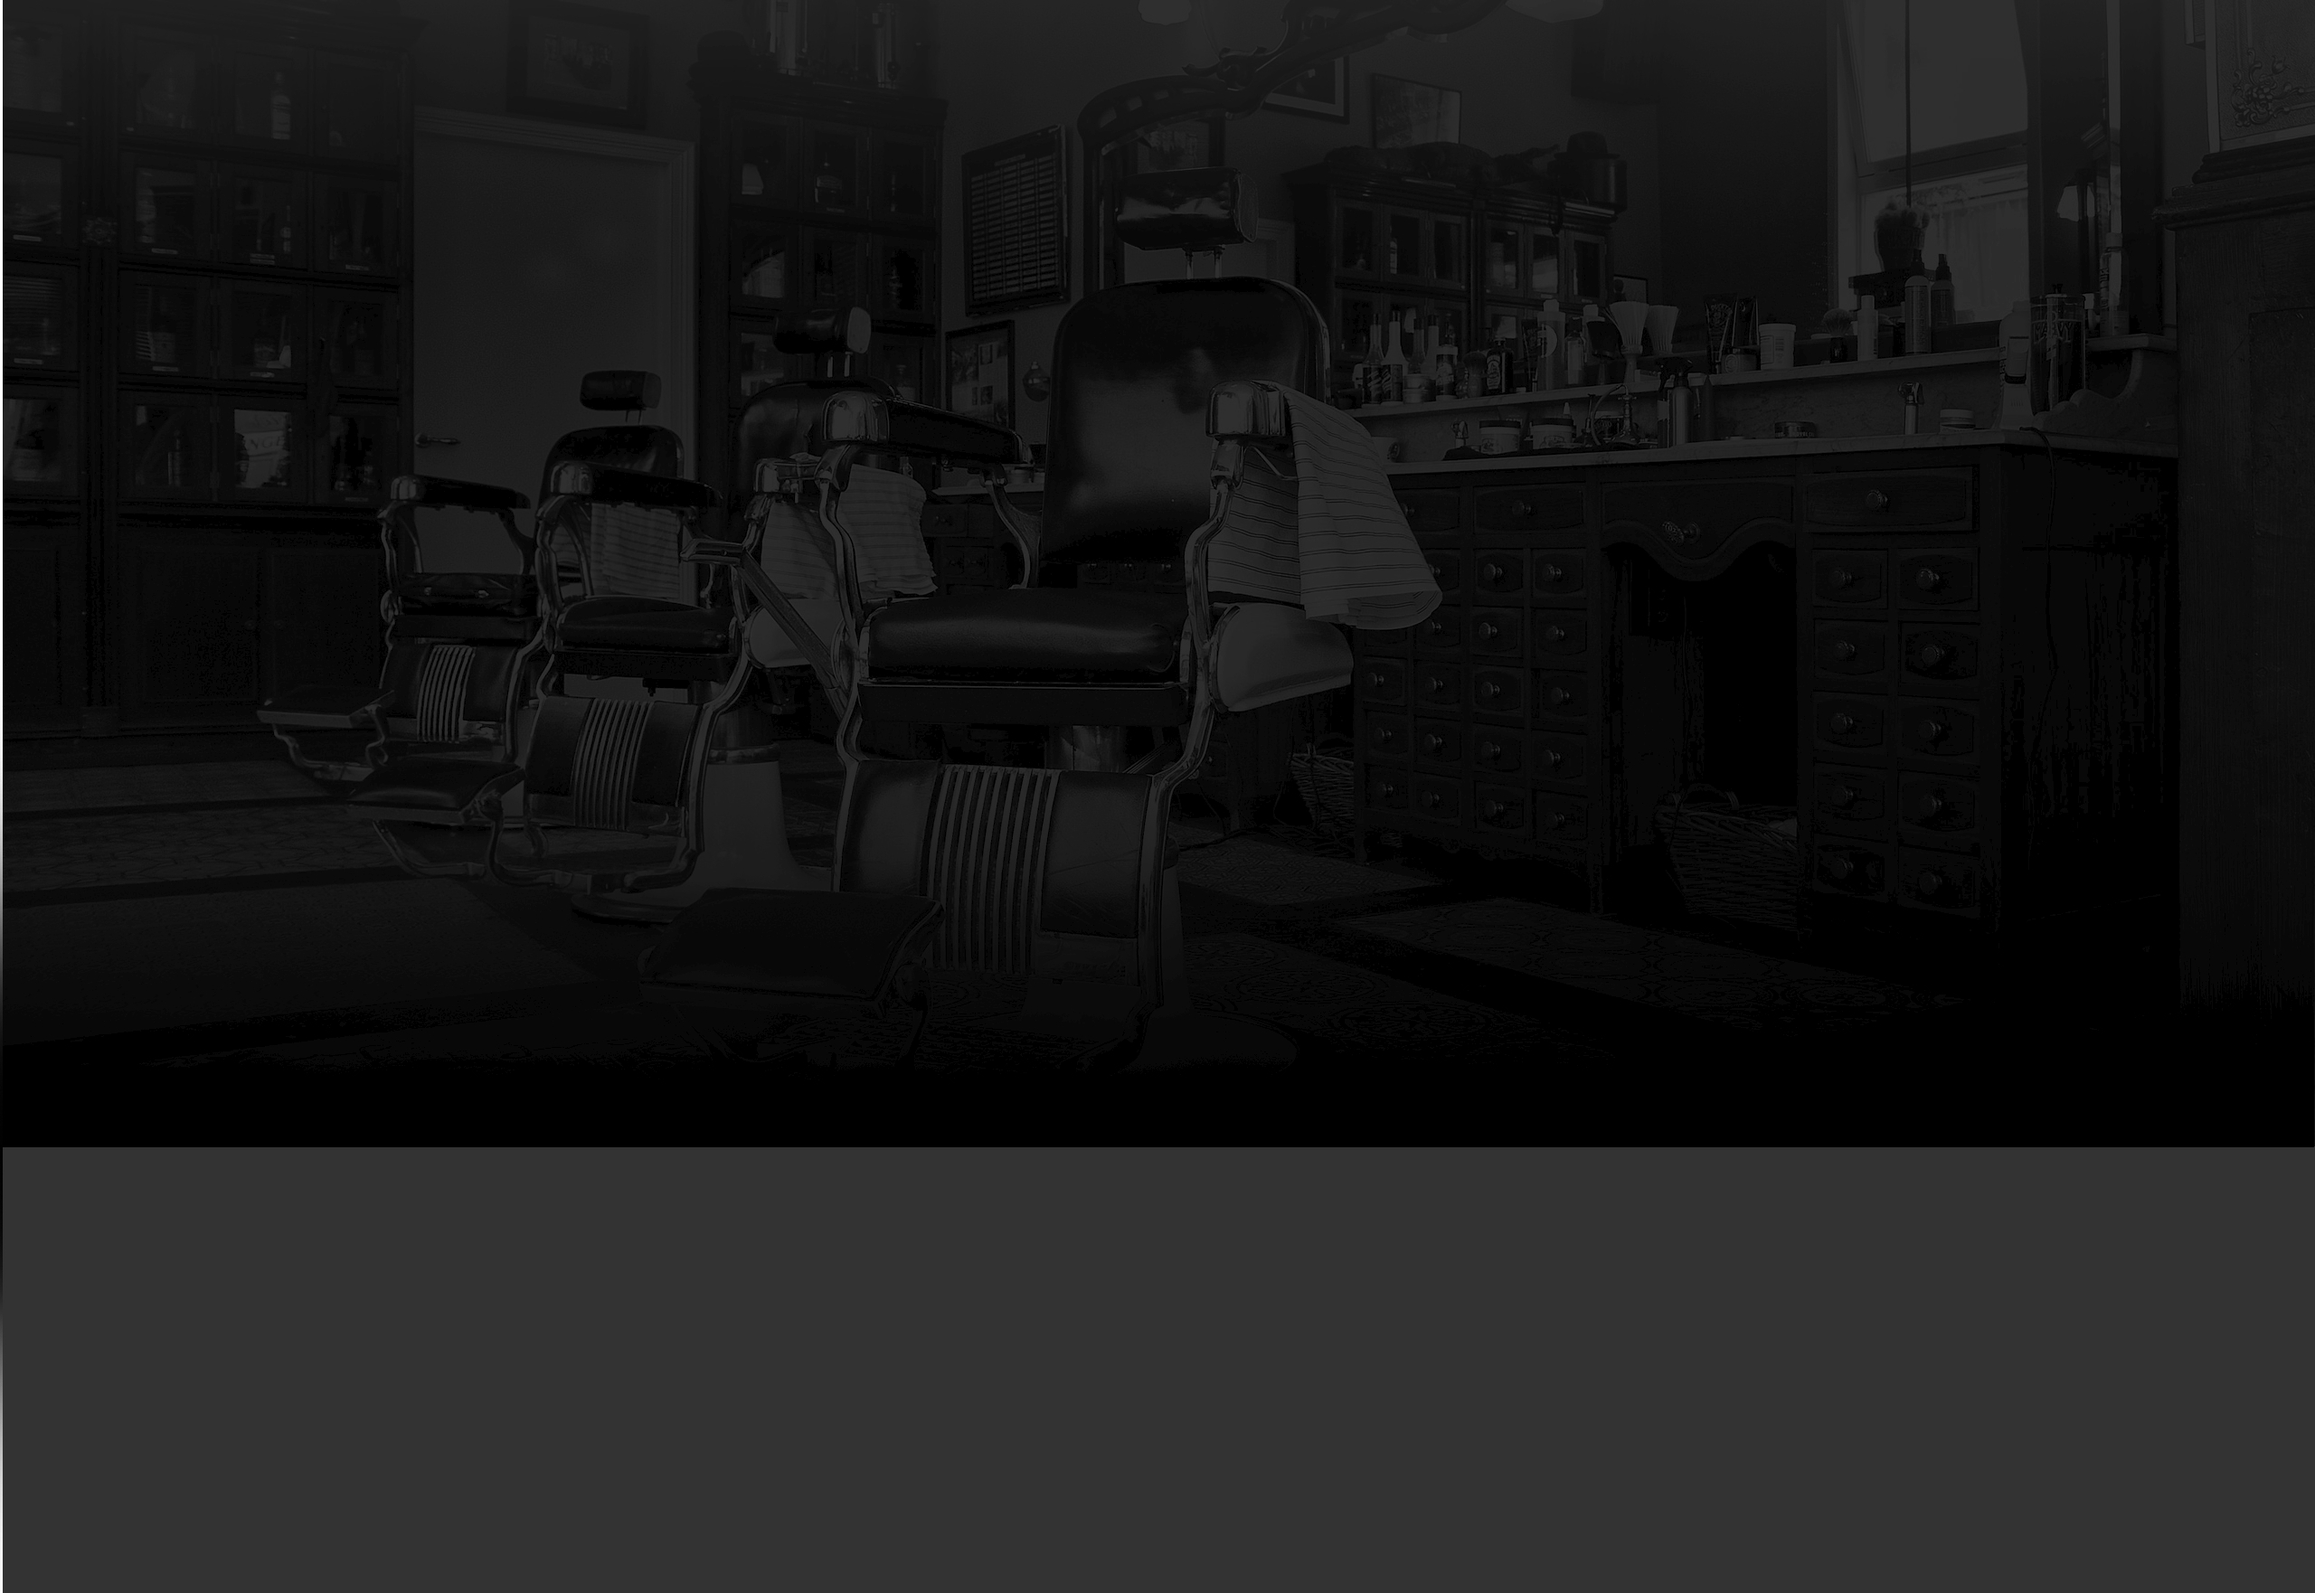
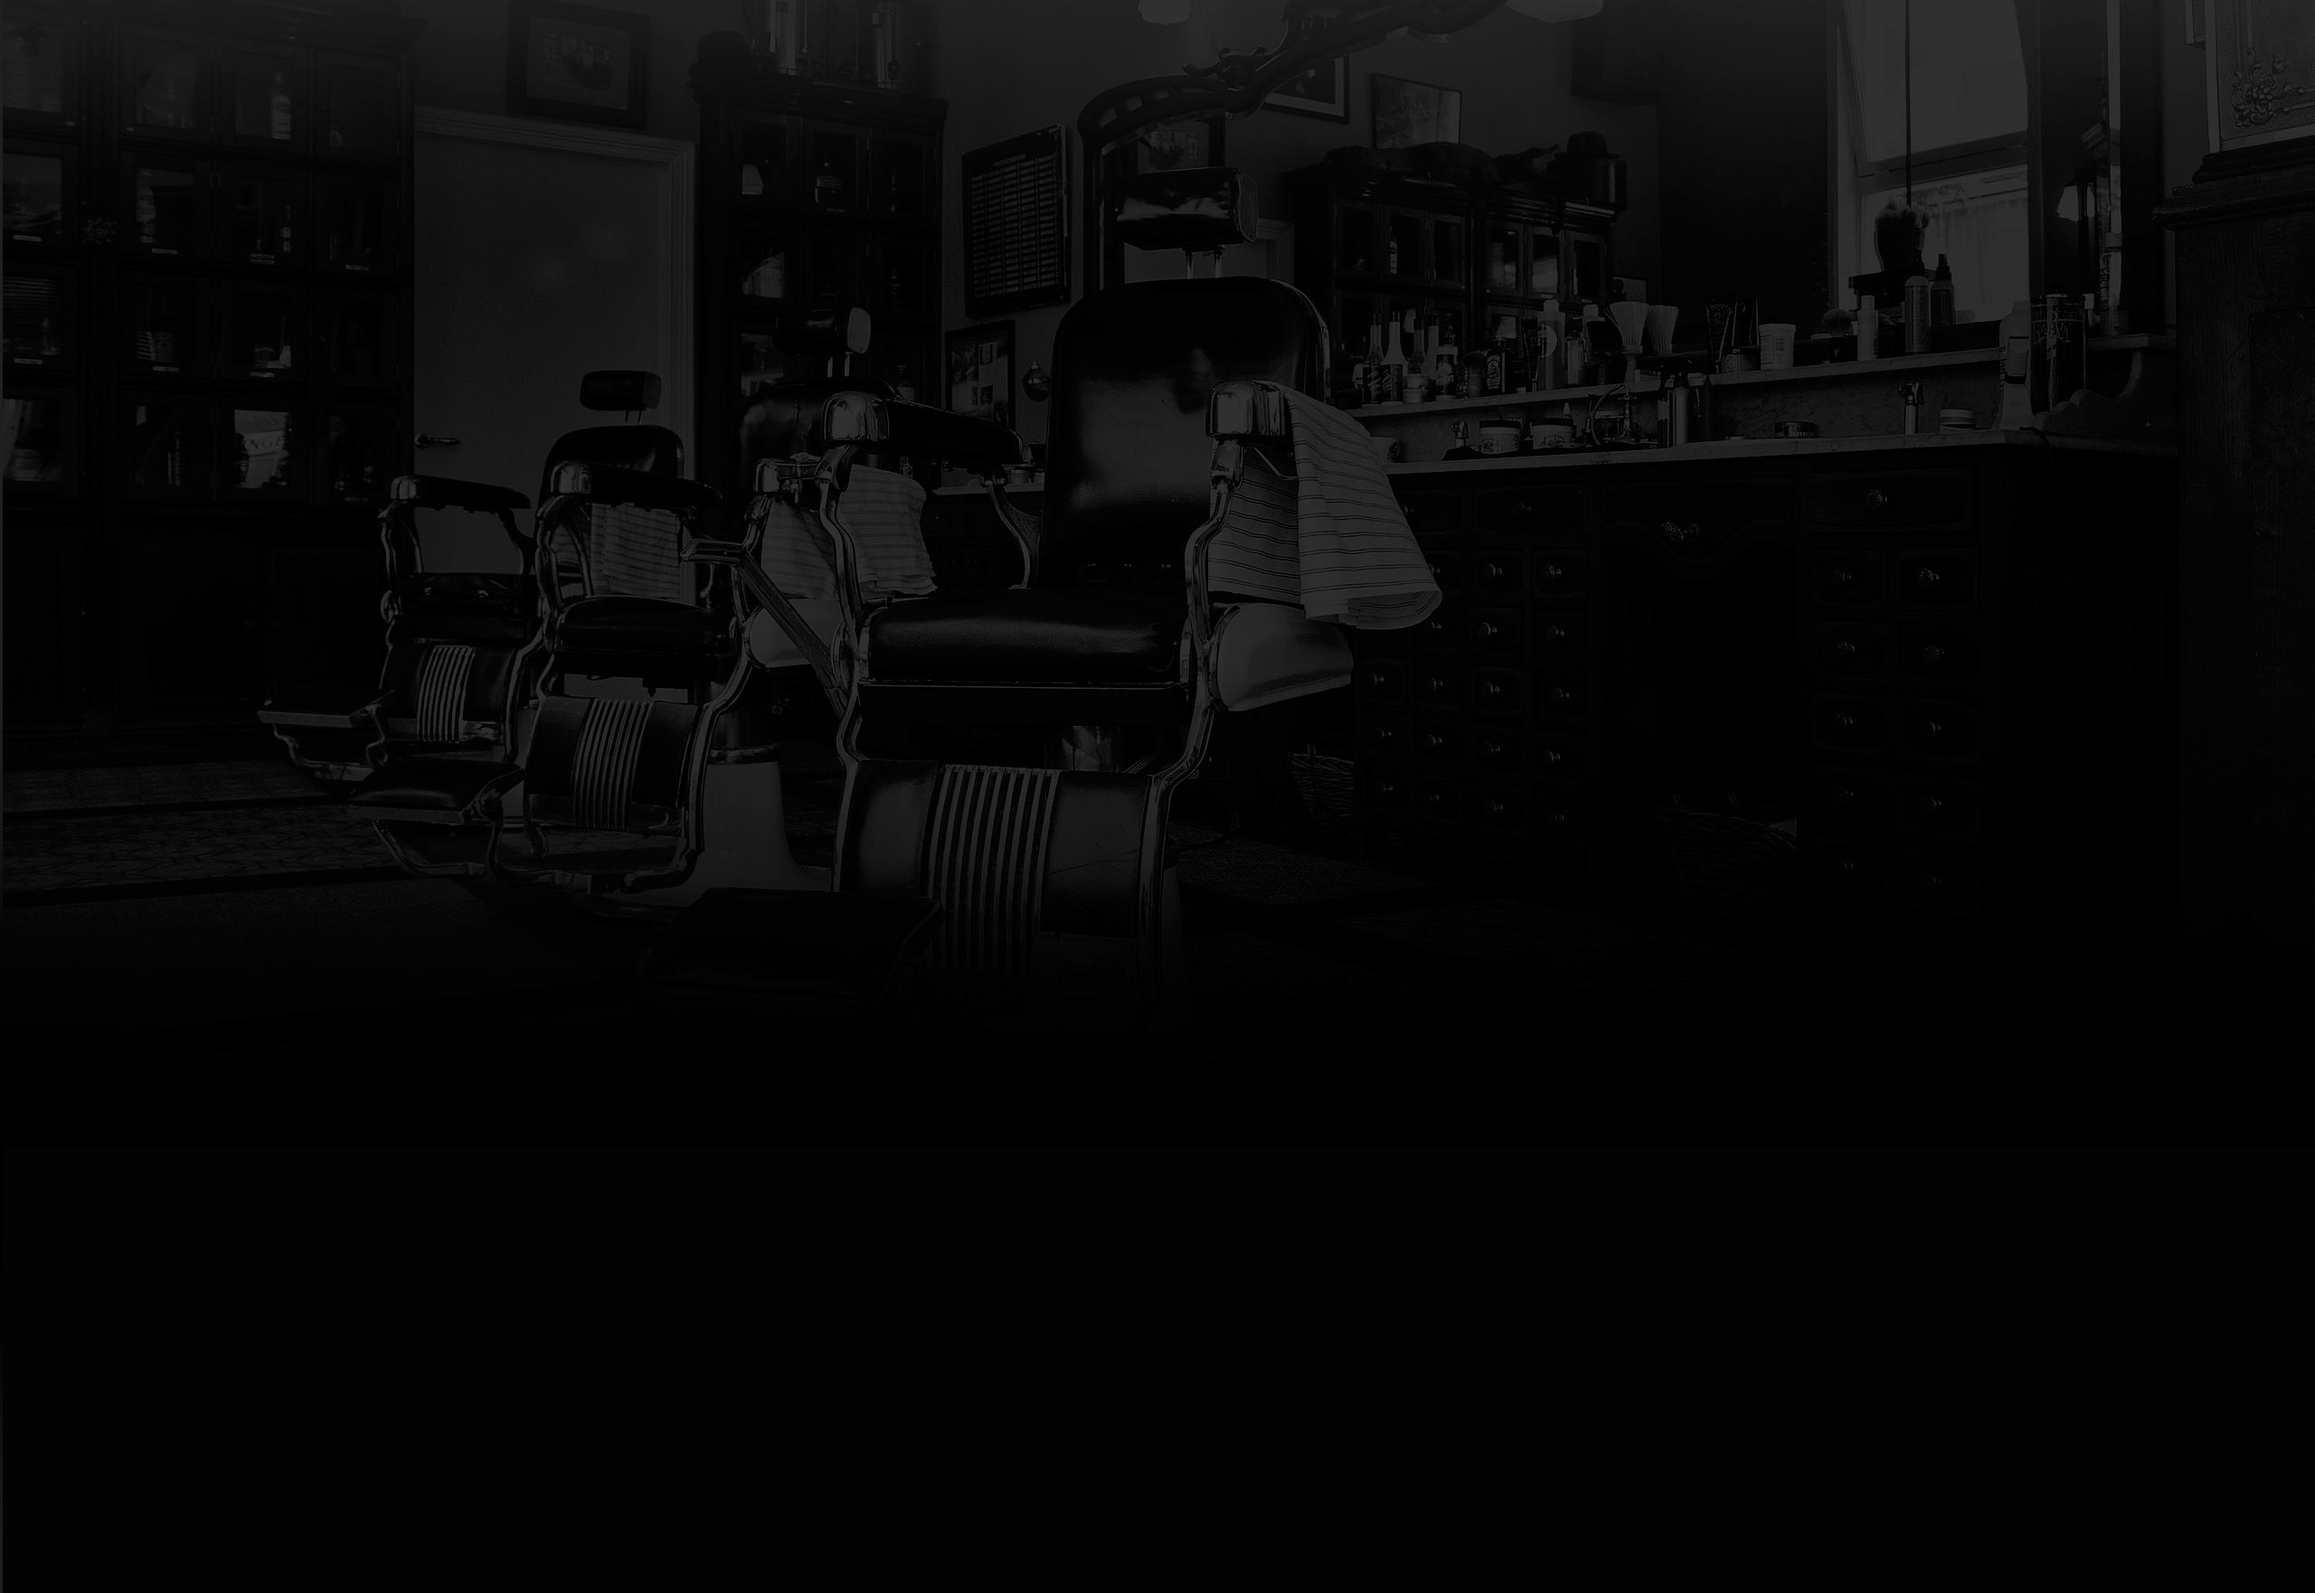
Finished index decoration

Changed region(s): [[0.0, 0.7179, 1.0, 1.0]]

diff --git a/app/css/index.css b/app/css/index.css
@@ -5,7 +5,7 @@ body {
   line-height: 24px;
   text-transform: uppercase;
   min-width: 960px;
-  background: #000 url("../img/background.jpg") no-repeat center top;
+  background: #242424 url("../img/background.jpg") no-repeat center top;
   color: #fff;
   margin: 0;
   padding: 0;
@@ -76,7 +76,7 @@ body {
   position: absolute;
   top: 28px;
   left: 20px;
-  width: 18px;
+  width: 21px;
   height: 18px;
   background: url("../img/sprite.png") no-repeat;
   opacity: .3;
@@ -178,10 +178,8 @@ body {
   outline: none;
   cursor: pointer;
   font-weight: 700;
-  font-size: 14px;
-  line-height: 24px;
-  font-family: "PT Sans Narrow", "Arial", sans-serif;
-  text-transform: uppercase;
+  font: inherit;
+  text-transform: inherit;
   text-decoration: none;
   vertical-align: top;
   text-align: center;
@@ -204,24 +202,127 @@ body {
   position: relative;
   height: 260px;
 }
+.gallery-content {
+  height: 164px;
+  margin: 0;
+  background-color: #ccc;
+  border: 7px solid #fff;
+}
+.gallery-content img {
+  width: 286px;
+  height: 164px;
+}
+.gallery .btn {
+  position: absolute;
+  bottom: 0;
+  width: 140px;
+  margin: 0;
+}
+.gallery-prev {
+  left: 0;
+}
+.gallery-next {
+  right: 0;
+}
+.appointment-form input {
+  background-color: #f9f6f3;
+  border: 2px solid #000;
+  outline: none;
+  font-size: 14px;
+  line-height: 24px;
+  font: inherit;
+  text-transform: inherit;
+  color: inherit;
+  width: 106px;
+  padding: 7px 15px;
+  float: left;
+  margin-right: 20px;
+  margin-bottom: 20px;
+}
+.appointment-form input:nth-child(2n) {
+  margin-right: 0;
+}
+.appointment-form input:focus {
+  border: 2px solid #663d15;
+}
+.appointment-form .btn {
+  clear: both;
+  width: 100%;
+}
 .main-footer {
   margin-top: 65px;
   padding-top: 60px;
   padding-bottom: 40px;
+  color: #ffffff;
+  background: #252525 url("../img/pattern-black.jpg");
 }
 .footer-contacts {
   float: left;
   width: 320px;
   margin-right: 60px;
-  min-height: 90px;
+}
+.footer-contacts a {
+  color: #ffffff;
+}
+.footer-contacts a:hover {
+  text-decoration: none;
 }
 .footer-social {
   float: left;
   width: 180px;
-  min-height: 90px;
+  text-align: center;
+}
+.footer-social p {
+  margin: 0;
+  margin-bottom: 15px;
+}
+.social-btn {
+  display: inline-block;
+  width: 43px;
+  height: 43px;
+  margin: 0 2px;
+  background: #000 url("../img/sprite.png") no-repeat center;
+  font-size: 0;
+  vertical-align: top;
+  text-decoration: none;
+  -webkit-transition: background-position 0.5s, background-color 0.5s;
+  -o-transition: background-position 0.5s, background-color 0.5s;
+  transition: background-position 0.5s, background-color 0.5s;
+}
+.social-btn:hover {
+  background-color: #fff;
+}
+.social-btn-vk {
+  background-position: 10px -163px;
+}
+.social-btn-vk:hover {
+  background-position: 10px -295px;
+}
+.social-btn-fb {
+  background-position: 10px -80px;
+}
+.social-btn-fb:hover {
+  background-position: 10px -205px;
+}
+.social-btn-inst {
+  background-position: 10px -122px;
+}
+.social-btn-inst:hover {
+  background-position: 10px -248px;
 }
 .footer-copyright {
   float: right;
-  width: 180px;
-  min-height: 90px;
+  max-width: 180px;
+}
+.footer-copyright p {
+  margin: 0;
+  margin-bottom: 15px;
+  text-align: center;
+}
+.footer-copyright .btn {
+  margin-right: 0;
+}
+.footer-copyright .btn:hover {
+  color: #000000;
+  background-color: #fff;
 }

diff --git a/app/less/index.less b/app/less/index.less
@@ -5,7 +5,7 @@ body {
 	line-height: 24px;
 	text-transform: uppercase;
 	min-width: 960px;
-	background: #000 url("../img/background.jpg") no-repeat center top;
+	background: #242424 url("../img/background.jpg") no-repeat center top;
 	color: #fff;
 	margin: 0;
 	padding: 0;
@@ -83,7 +83,7 @@ body {
 		position: absolute;
 		top: 28px;
 		left: 20px;
-		width: 18px;
+		width: 21px;
 		height: 18px;
 		background: url("../img/sprite.png") no-repeat;
 		opacity: .3;
@@ -199,10 +199,8 @@ body {
 	outline: none;
 	cursor: pointer;
 	font-weight: 700;
-	font-size: 14px;
-	line-height: 24px;
-	font-family: "PT Sans Narrow", "Arial", sans-serif;
-	text-transform: uppercase;
+	font: inherit;
+	text-transform: inherit;
 	text-decoration: none;
 	vertical-align: top;
 	text-align: center;
@@ -222,8 +220,57 @@ body {
 .gallery {
 	position: relative;
 	height: 260px;
+	&-content {
+		height: 164px;
+		margin: 0;
+		background-color: #ccc;
+		border: 7px solid #fff;
+		img {
+			width: 286px;
+			height: 164px;
+		}
+	}
+	& .btn {
+		position: absolute;
+		bottom: 0;
+		width: 140px;
+		margin: 0;
+	}
+	&-prev {
+		left: 0;
+	}
+	&-next {
+		right: 0;
+	}
 }
 
+.appointment-form {
+	input {
+		background-color: #f9f6f3;
+		border: 2px solid #000;
+		outline: none;
+		font-size: 14px;
+		line-height: 24px;
+		font: inherit;
+		text-transform: inherit;
+		color: inherit;
+		width: 106px;
+		padding: 7px 15px;
+		float: left;
+		margin-right: 20px;
+		margin-bottom: 20px;
+		&:nth-child(2n) {
+			margin-right: 0;
+		}
+		&:focus {
+			border: 2px solid #663d15;
+		}
+	}
+	& .btn {
+		clear: both;
+		width: 100%;
+	}
+}
 
 //MAIN END
 
@@ -232,25 +279,83 @@ body {
 	margin-top: 65px;
 	padding-top: 60px;
 	padding-bottom: 40px;
+	color: #ffffff;
+	background: #252525 url("../img/pattern-black.jpg");
 }
 
 .footer-contacts {
 	float: left;
 	width: 320px;
 	margin-right: 60px;
-	min-height: 90px; //for net only
+	a {
+		color: #ffffff;
+		&:hover {
+			text-decoration: none;
+		}
+	}
 }
 
 .footer-social {
 	float: left;
 	width: 180px;
-	min-height: 90px; //for net only
+	text-align: center;
+	p {
+		margin: 0;
+		margin-bottom: 15px;
+	}
+}
+
+.social-btn {
+	display: inline-block;
+	width: 43px;
+	height: 43px;
+	margin: 0 2px;
+	background: #000 url("../img/sprite.png") no-repeat center;
+	font-size: 0;
+	vertical-align: top;
+	text-decoration: none;
+	transition: background-position .5s, background-color .5s;
+	&:hover {
+		background-color: #fff;
+	}
+}
+
+.social-btn-vk {
+	background-position: 10px -163px;
+	&:hover {
+		background-position: 10px -295px;
+	}
+}
+
+.social-btn-fb {
+	background-position: 10px -80px;
+	&:hover {
+		background-position: 10px -205px;
+	}
+}
+
+.social-btn-inst {
+	background-position: 10px -122px;
+	&:hover {
+		background-position: 10px -248px;
+	}
 }
 
 .footer-copyright {
 	float: right;
-	width: 180px;
-	min-height: 90px; //for net only
+	max-width: 180px;
+	p {
+		margin: 0;
+		margin-bottom: 15px;
+		text-align: center;
+	}
+	& .btn {
+		margin-right: 0;
+		&:hover {
+			color: #000000;
+			background-color: #fff;
+		}
+	}
 }
 
 //FOOTER END

diff --git a/app/index.html b/app/index.html
@@ -112,7 +112,7 @@
 		</div>
 	</main>
 	<footer class="main-footer">
-		<div class="container">
+		<div class="container clearfix">
 			<section class="footer-contacts">
 				Барбершоп "Бородинский"
 				<br> Адрес: г. Санкт-Петербург, Б. Конюшенная, д. 19/8
